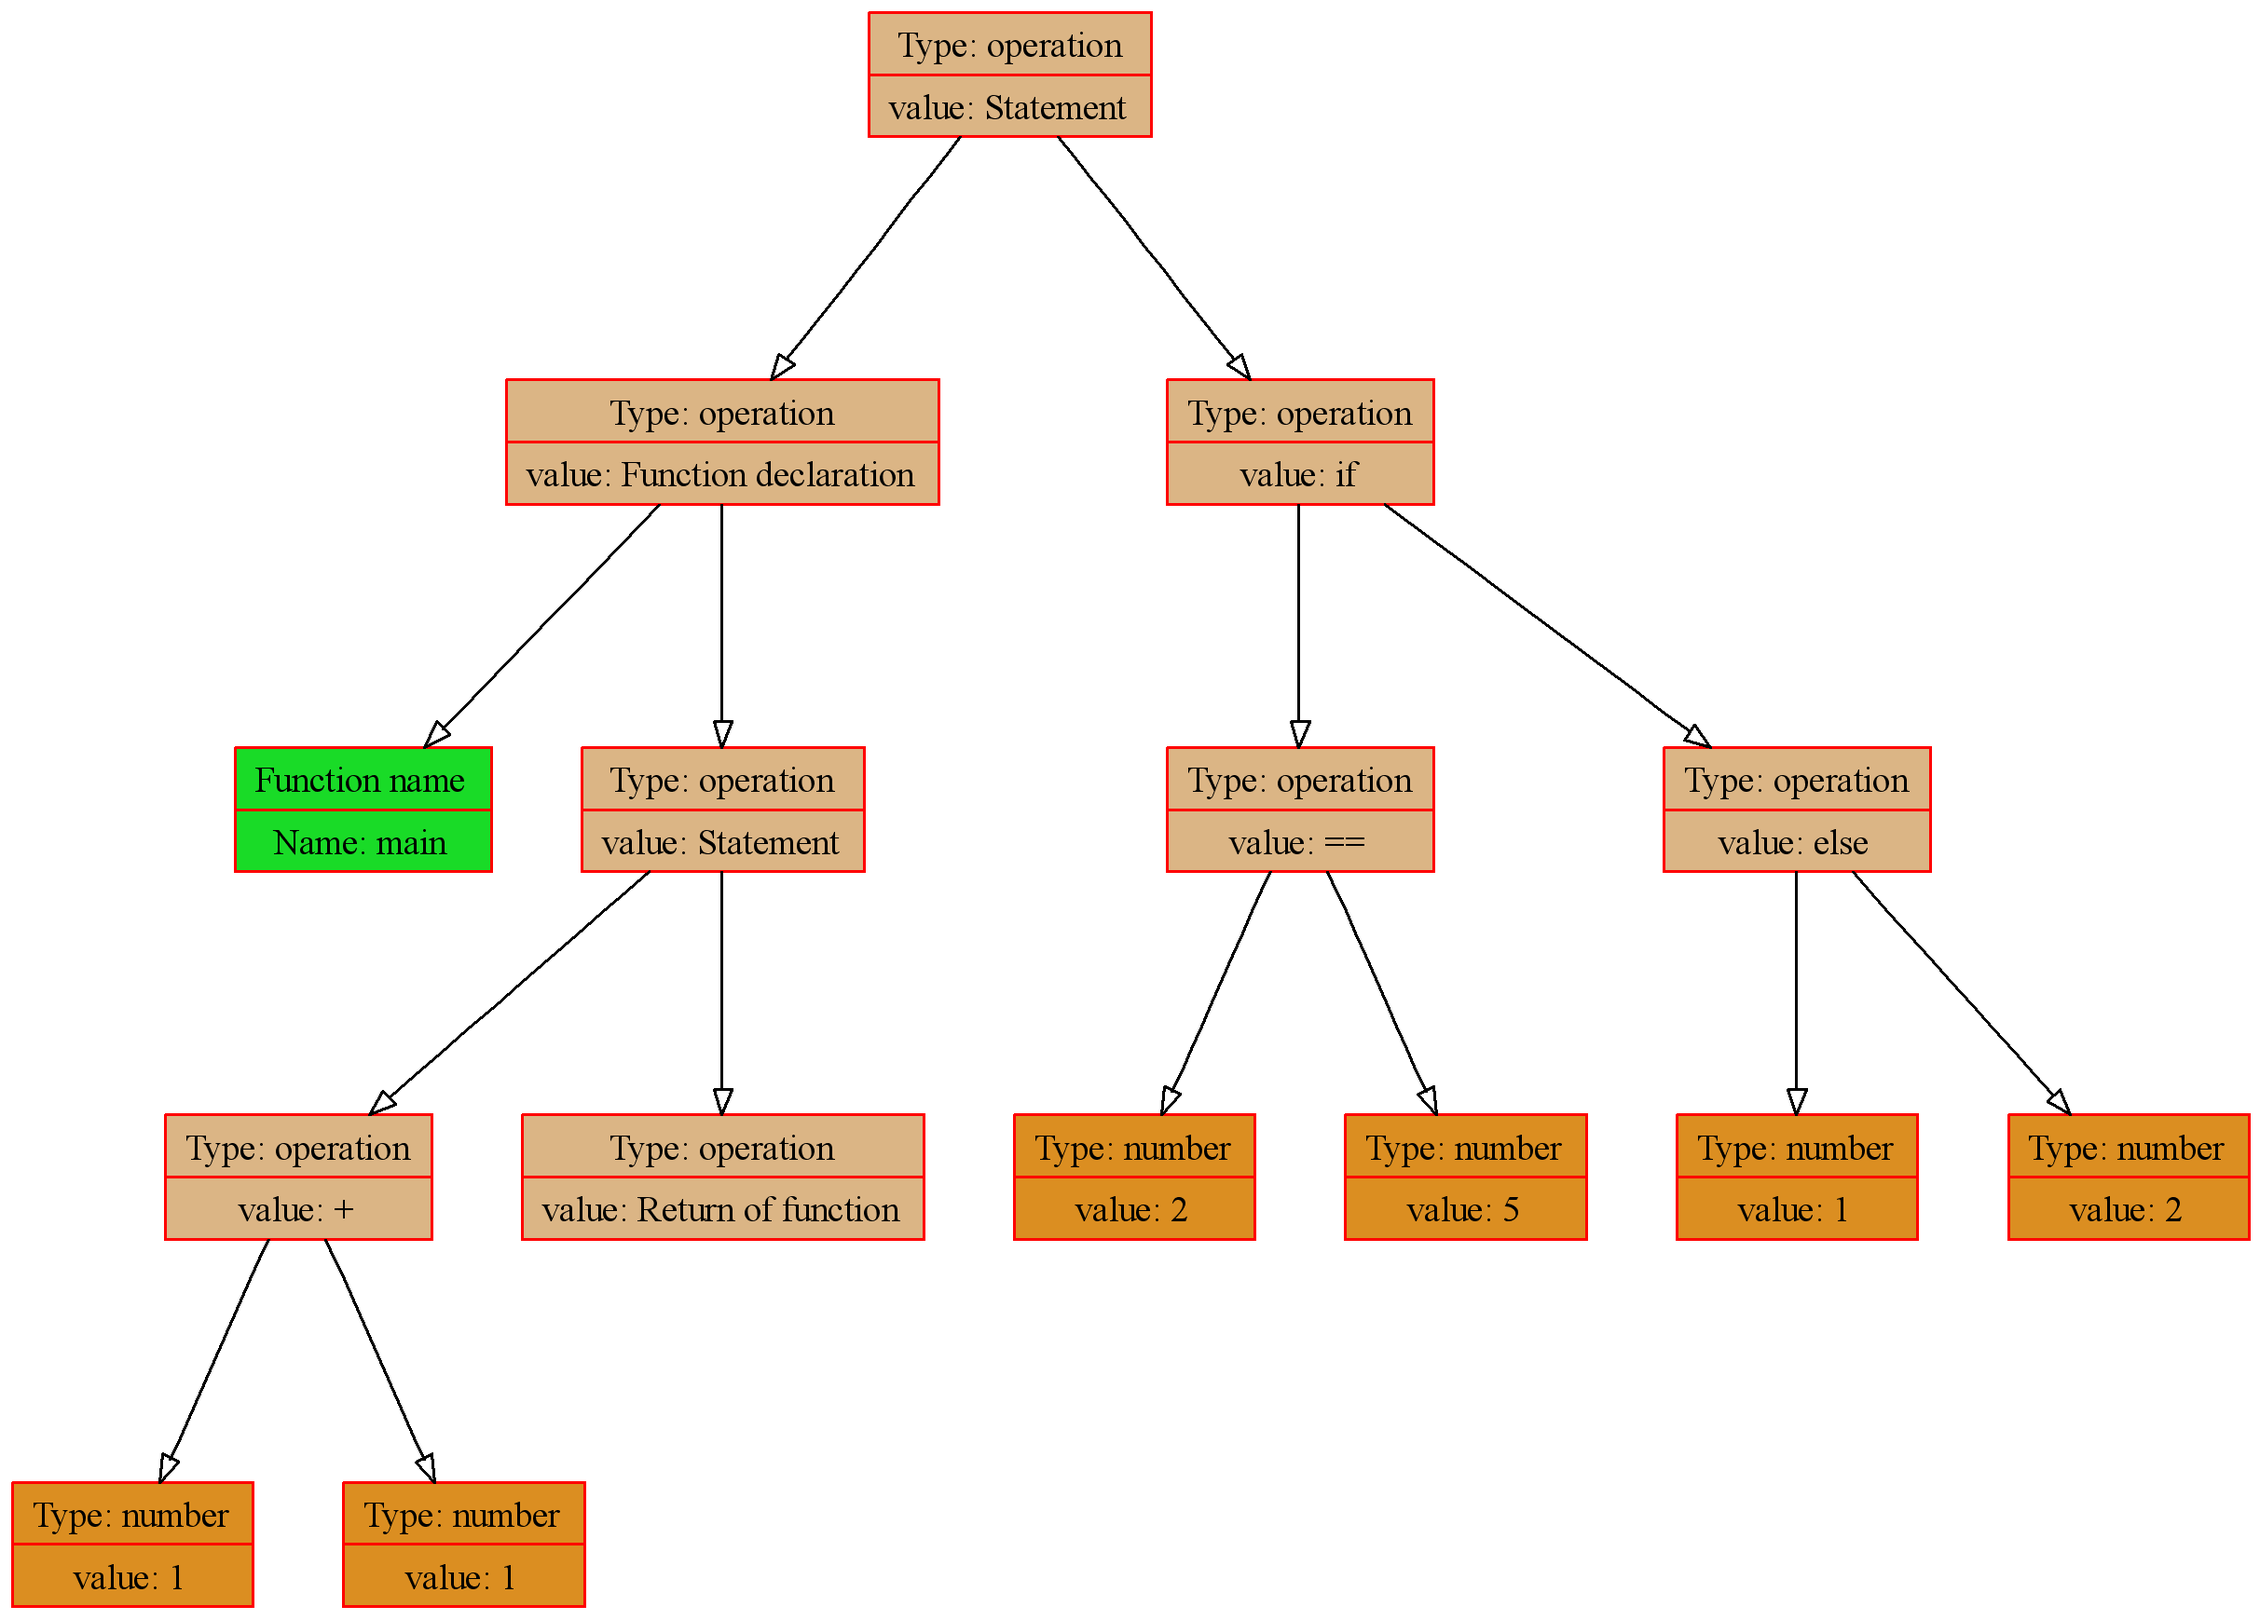
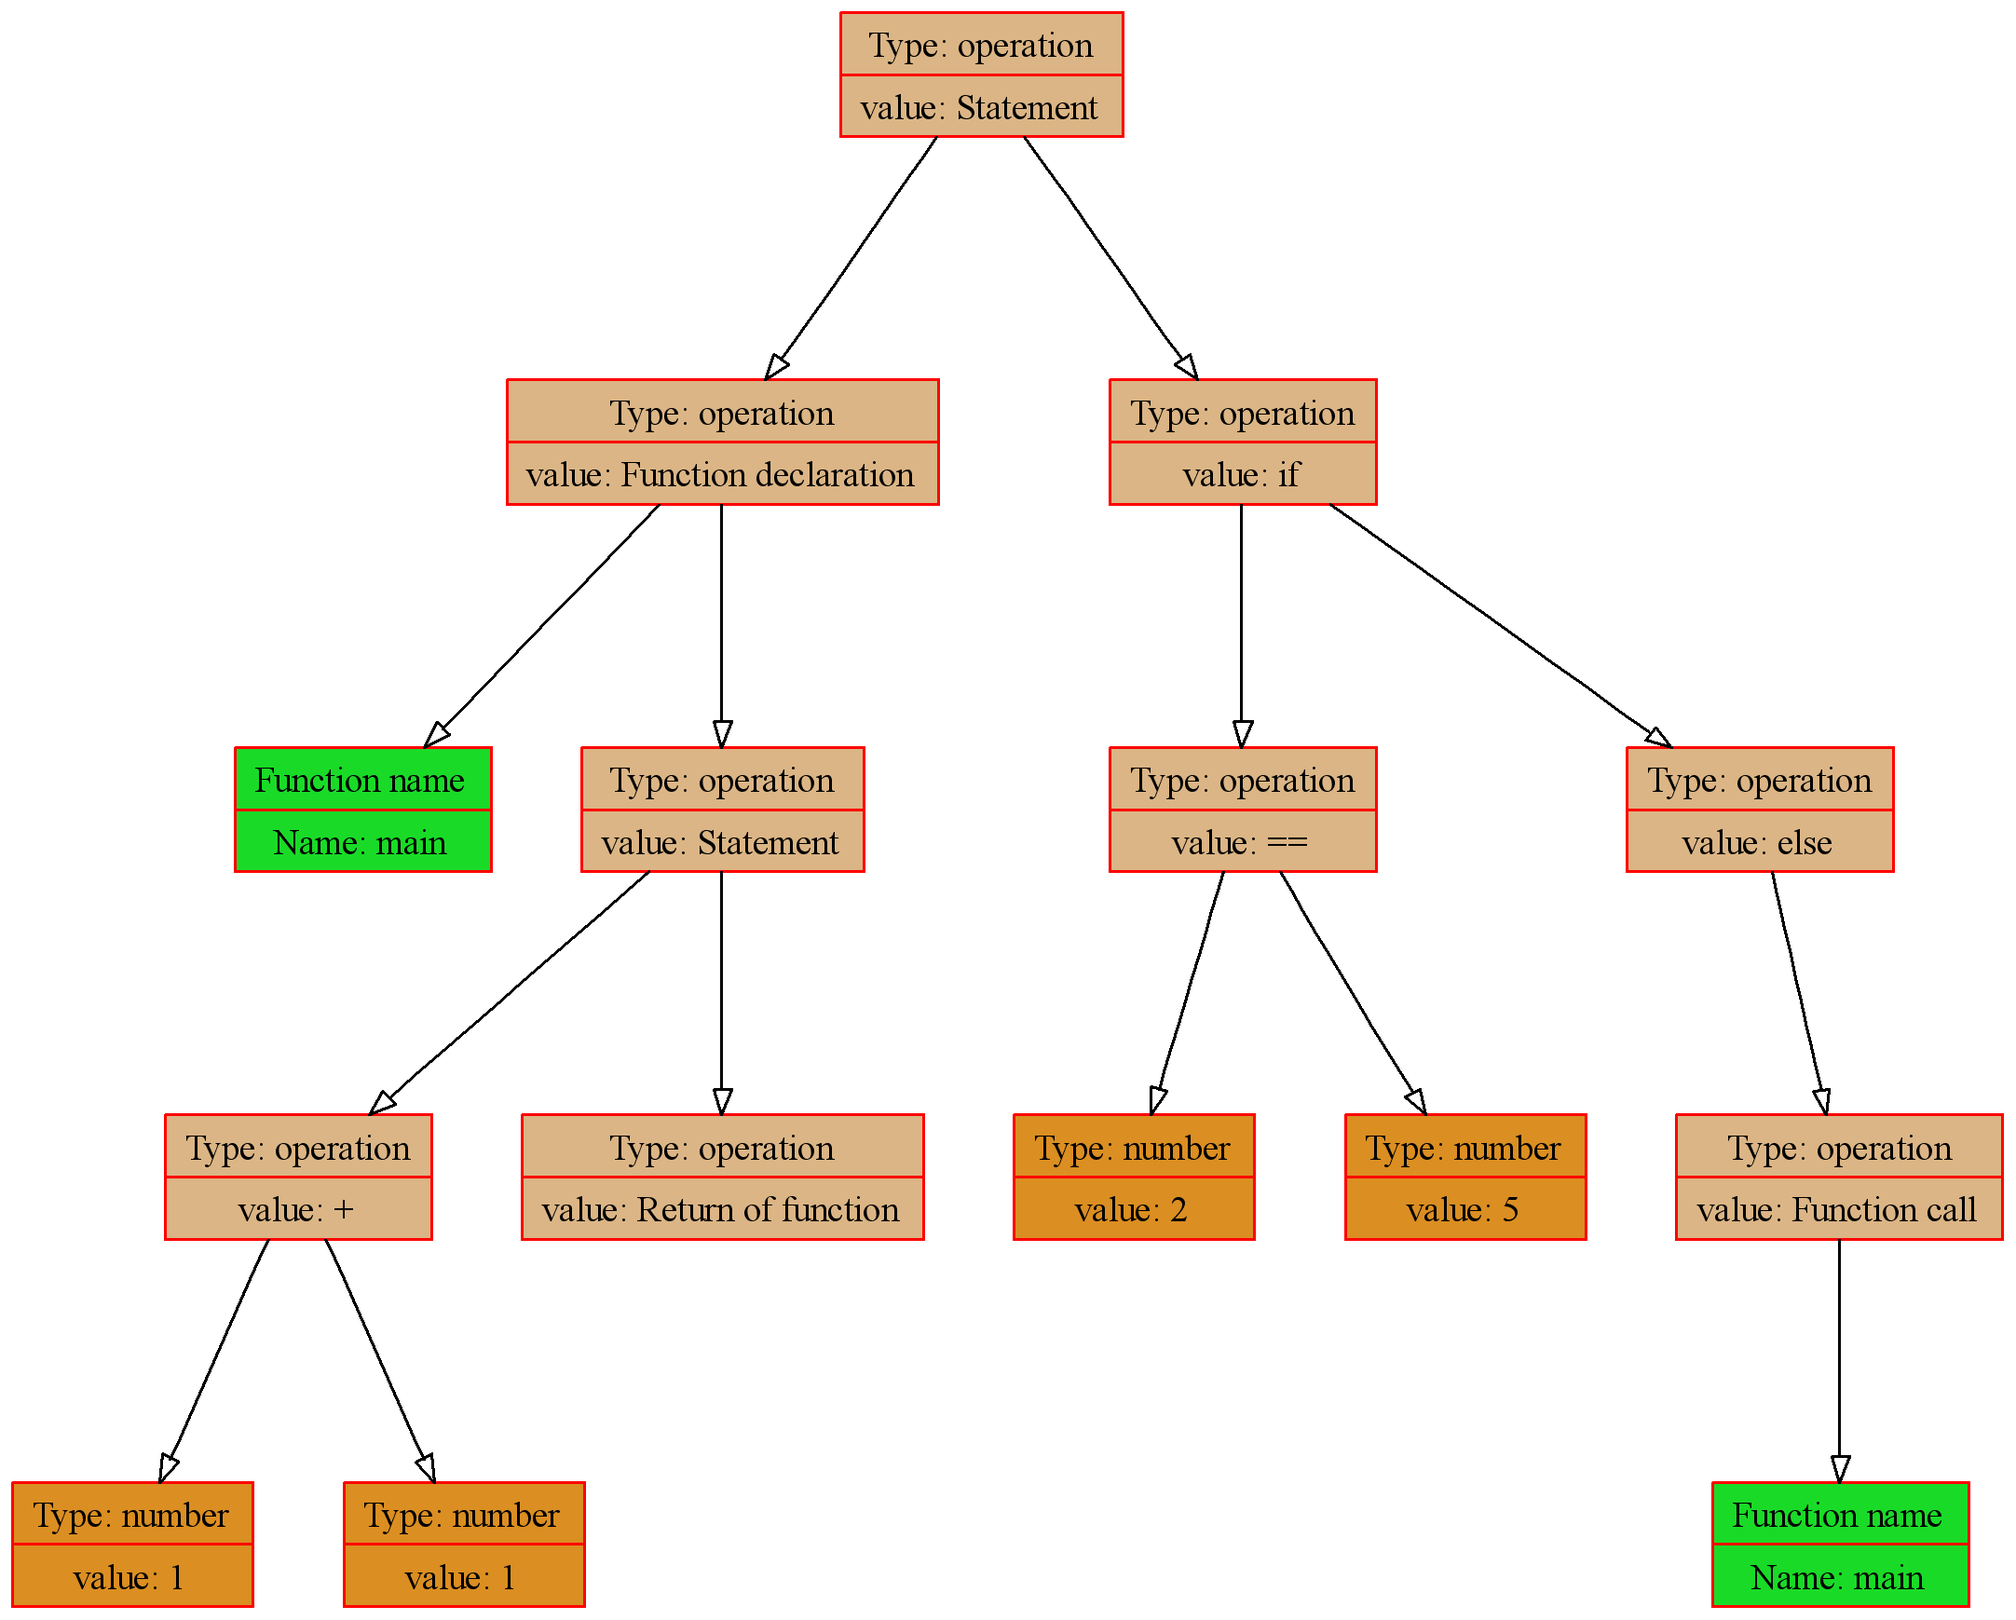
added function calls, if/else buggy

diff --git a/backend/src/tree_to_asm.cpp b/backend/src/tree_to_asm.cpp
@@ -16,8 +16,8 @@ void PrintOperation (TreeNode* cur_node, FILE* cmds_file)
 {
     static int label_counter = 0;
 
-    printf ("Now printing type %d, operation %s, dbl val: %lg\n",
-             cur_node->type, GetOpSign (cur_node->value.op_val), cur_node->value.dbl_val);
+    printf ("Now printing type %d, operation %s, dbl val: %lg, name ptr %p\n",
+             cur_node->type, GetOpSign (cur_node->value.op_val), cur_node->value.dbl_val, cur_node->value.var_name);
 
     if (cur_node->type == OP_T)
     {
@@ -44,6 +44,31 @@ void PrintOperation (TreeNode* cur_node, FILE* cmds_file)
             PrintOperation (r_child);
 
             PRINT ("ADD\n");
+            break;
+
+        case SUB:
+            PrintOperation (l_child);
+            PrintOperation (r_child);
+
+            PRINT ("SUB\n");
+            break;
+
+        case MUL:
+            PrintOperation (l_child);
+            PrintOperation (r_child);
+
+            PRINT ("MUL\n");
+            break;
+
+        case DIV:
+            PrintOperation (l_child);
+            PrintOperation (r_child);
+
+            PRINT ("DIV\n");
+            break;
+
+        case CALL:
+            PRINT ("CALL %s\n", cur_node->left->value.var_name);
             break;
 
         case IS_EE:

diff --git a/backend/src/parser.cpp b/backend/src/parser.cpp
@@ -52,6 +52,7 @@ TreeNode* TransformNode (TreeNode* node, Types type, double dbl_val, const char*
     node->left = nullptr;
     node->right = nullptr;
 
+    return node;
 }
 
 
@@ -173,7 +174,9 @@ TreeNode* GetParam (Token token_array[], int* cur_token_id)
     else
     {
         printf ("===Error. Undefined parametr sequence===\n");
+        return nullptr;
     }
+
 }
 
 
@@ -541,8 +544,8 @@ void PrintTokens (Token* token_array)
     int i = 0;
     while (token_array[i].value.op_val != TERMINATION_SYM)
     {
-        printf ("Token %d. Type: %d, Dbl value: %lg. Line number %d. Op type: %d\n", i,
-               token_array[i].type, token_array[i].value.dbl_val, token_array[i].line_number, token_array[i].value.op_val);
+        printf ("Token %d. Type: %d, Dbl value: %lg. Line number %d. Op type: %d, name ptr %p\n", i,
+               token_array[i].type, token_array[i].value.dbl_val, token_array[i].line_number, token_array[i].value.op_val, token_array[i].value.var_name);
 
         i++;
     }
